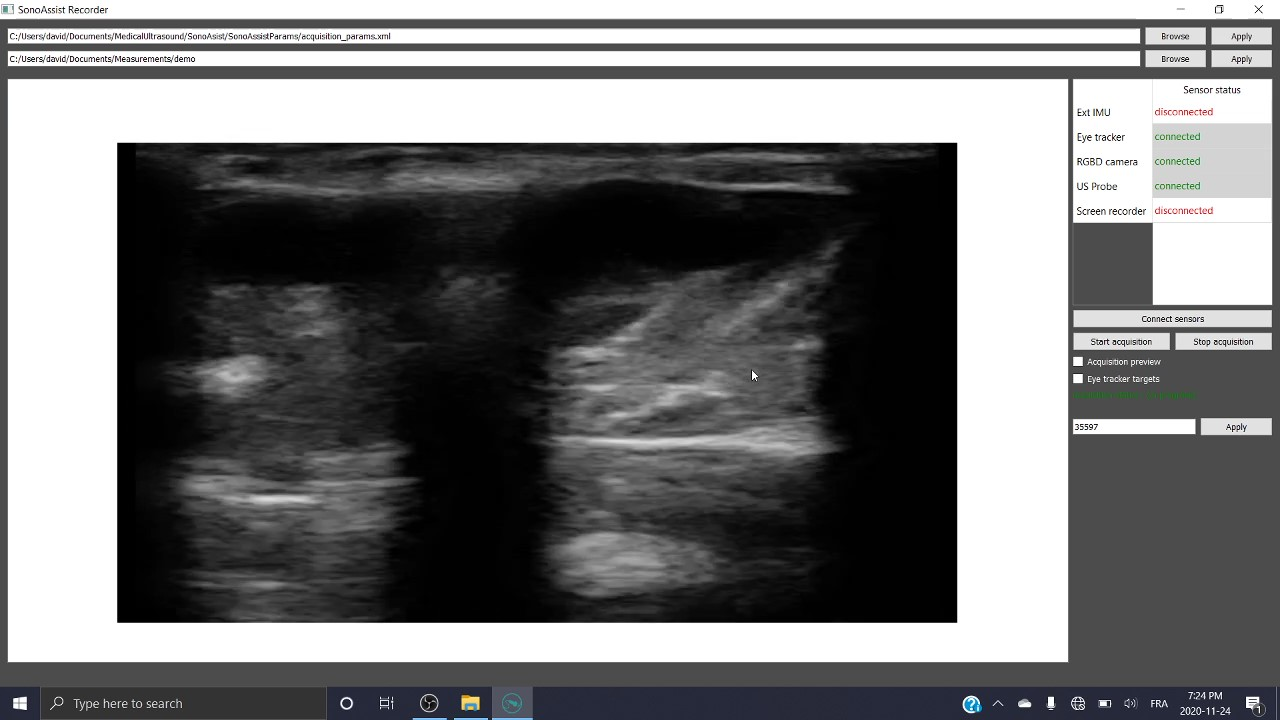
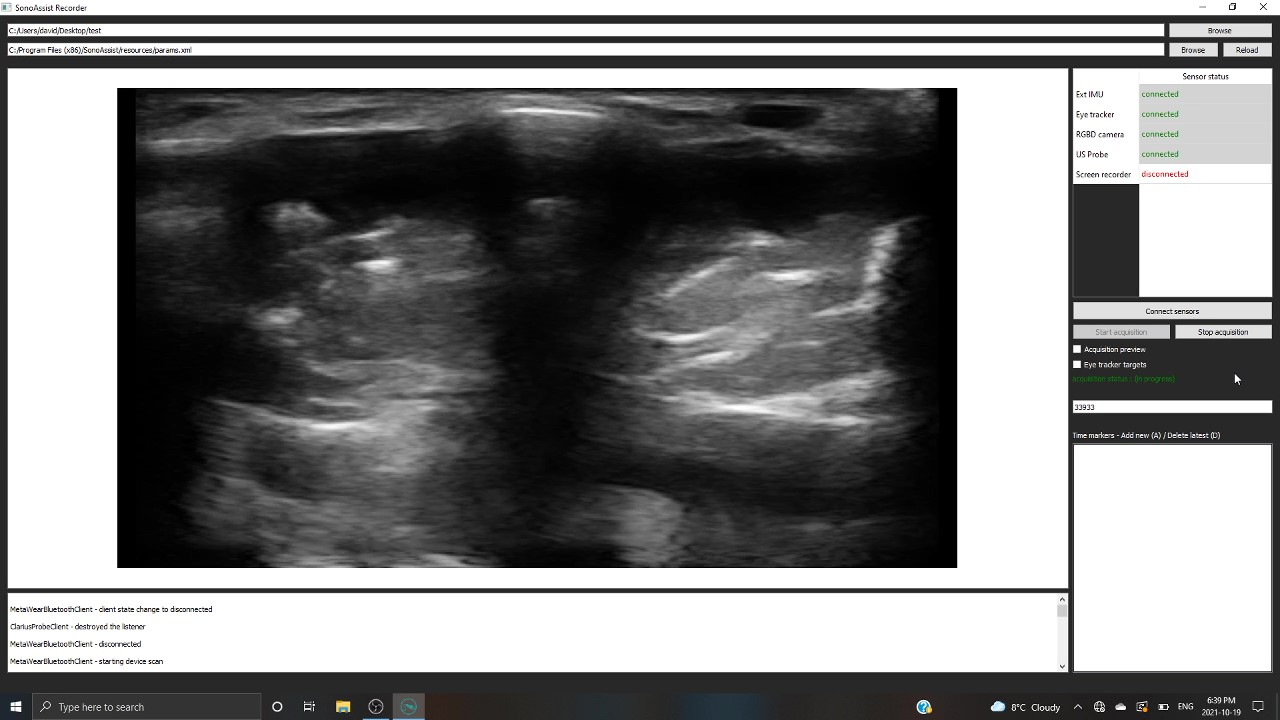
Tweaks and new time marker functionality
- New time marker functionality
		- add a time marker (a key)
		- remove latest time marker (d key)

	- UI updates
		- changed the position of the debug output window
		- new side panel component for time markers

	- Updated the readme

diff --git a/SonoAssist/SonoAssist/SonoAssist.cpp b/SonoAssist/SonoAssist/SonoAssist.cpp
@@ -313,6 +313,8 @@ void SonoAssist::on_start_acquisition_button_clicked() {
             m_stream_is_active = true;
             set_acquisition_label(true);
 
+            clear_time_markers();
+
             // graying out the (start acquisition button while streaming)
             ui.start_acquisition_button->setEnabled(false);
 
@@ -537,7 +539,6 @@ void SonoAssist::on_us_probe_status_change(bool device_status) {
     set_device_status(device_status, US_PROBE);
 }
 
-
 void SonoAssist::add_debug_text(QString debug_str) {
     
     try {
@@ -545,6 +546,55 @@ void SonoAssist::add_debug_text(QString debug_str) {
     } catch (...) {};
     
 }
+
+///////////////////////////////////////////////////////////////////////////////////////////////////////////// time marker handling
+
+/*
+Using the key press handler to detect "a" and "d" presses for the creation and deletion of time markers
+*/
+void SonoAssist::keyPressEvent(QKeyEvent* event) {
+
+    if (m_stream_is_active) {
+
+        // adding a time marker
+        if (event->key() == Qt::Key_A) {
+
+            // adding the marker to the display list + json time marker list
+            QString marker_str = "Time marker #" + QString::number(ui.time_marker_list->count()) + " - " + QString::fromUtf8(SensorDevice::get_micro_timestamp().c_str());
+            ui.time_marker_list->addItem(new QListWidgetItem(marker_str));
+            m_time_markers_json.push_back(QJsonValue(marker_str));
+
+            // updating the output params
+            m_output_params["time_markers"] = m_time_markers_json;
+
+        }
+
+        // removing a time marker
+        else if (event->key() == Qt::Key_D) {
+
+            // removing the latest time marker
+            if (ui.time_marker_list->count() > 0) {
+                m_time_markers_json.pop_back();
+                delete ui.time_marker_list->takeItem(ui.time_marker_list->count() - 1);
+            }
+
+            // updating the output params
+            m_output_params["time_markers"] = m_time_markers_json;
+
+        }
+
+    }
+
+}
+
+void SonoAssist::clear_time_markers(void) {
+
+    if (ui.time_marker_list->count() > 0) {
+        ui.time_marker_list->clear();
+    }
+    
+}
+
 
 ///////////////////////////////////////////////////////////////////////////////////////////////////////////// graphical functions
 
@@ -653,7 +703,9 @@ void SonoAssist::configure_normal_display(void) {
     // loading the normal normal display dimensions
     try {
         m_main_us_img_width = std::stoi((*m_app_params)["us_image_main_display_width"]);
+        if (m_main_us_img_width > US_DISPLAY_DEFAULT_WIDTH) m_main_us_img_width = US_DISPLAY_DEFAULT_WIDTH;
         m_main_us_img_height = std::stoi((*m_app_params)["us_image_main_display_height"]);
+        if (m_main_us_img_height > US_DISPLAY_DEFAULT_HEIGHT) m_main_us_img_height = US_DISPLAY_DEFAULT_HEIGHT;
     } catch (...) {
         m_main_us_img_width = US_DISPLAY_DEFAULT_WIDTH;
         m_main_us_img_height = US_DISPLAY_DEFAULT_HEIGHT;

diff --git a/SonoAssist/SonoAssist/SonoAssist.h b/SonoAssist/SonoAssist/SonoAssist.h
@@ -3,7 +3,9 @@
 #define _WINSOCKAPI_
 #include <windows.h>
 
+#include <tuple>
 #include <memory>
+#include <vector>
 
 #include <QFile>
 #include <QString>
@@ -30,8 +32,8 @@
 #define INACTIVE_SENSOR_FIELD_COLOR "#ffffff"
 
 // US probe display (normal)
-#define US_DISPLAY_DEFAULT_WIDTH 640
-#define US_DISPLAY_DEFAULT_HEIGHT 480
+#define US_DISPLAY_DEFAULT_WIDTH 1260
+#define US_DISPLAY_DEFAULT_HEIGHT 720
 
 // US probe display (preview)
 #define PREVIEW_US_DISPLAY_WIDTH 640
@@ -100,6 +102,9 @@ class SonoAssist : public QMainWindow {
 		void on_udp_port_input_editingFinished(void);
 		void sensor_panel_selection_handler(int row, int column);
 
+	protected:
+		void keyPressEvent(QKeyEvent* event);
+
 	private:
 
 		Ui::MainWindow ui;
@@ -134,9 +139,12 @@ class SonoAssist : public QMainWindow {
 		QJsonObject m_output_params;
 		std::string m_output_folder_path = "";
 		std::shared_ptr<config_map> m_app_params;
-		
+
+		// time marker handling vars
+		QJsonArray m_time_markers_json;
+
 		// sensor devices
-		
+
 		std::shared_ptr<RGBDCameraClient> m_camera_client_p;
 		std::shared_ptr<GazeTracker> m_gaze_tracker_client_p;
 		std::shared_ptr<ClariusProbeClient> m_us_probe_client_p;
@@ -176,4 +184,6 @@ class SonoAssist : public QMainWindow {
 		bool create_output_folder(void);
 		bool load_config_file(QString param_file_path);
 
+		// time marker funcions
+		void clear_time_markers(void);
 };

diff --git a/SonoAssistScripts/display_live_imu.py b/SonoAssistScripts/display_live_imu.py
@@ -75,6 +75,7 @@ if __name__ == "__main__":
                 scene.update_dynamic_arrow(orientation_data[1], orientation_data[2], orientation_data[3])
                 scene.update_display()
 
-                print(f"queue size : {us_model.r_connection.llen(us_model.data_key)}")
+                # print(f"queue size : {us_model.r_connection.llen(us_model.data_key)}")
 
+        # compatible with > 20 Hz acquisition
         else: time.sleep(0.05)

diff --git a/SonoAssist/SonoAssist/SensorDevice.cpp b/SonoAssist/SonoAssist/SensorDevice.cpp
@@ -93,7 +93,7 @@ void SensorDevice::write_to_redis(std::string data_str){
 * 
 * @returns string of micro second count since epoch
 */
-std::string SensorDevice::get_micro_timestamp(void) const {
+std::string SensorDevice::get_micro_timestamp(void) {
 
 	auto time_stamp = std::chrono::duration_cast<std::chrono::microseconds>(
 		std::chrono::high_resolution_clock::now().time_since_epoch()).count();

diff --git a/SonoAssist/SonoAssist/SensorDevice.h b/SonoAssist/SonoAssist/SensorDevice.h
@@ -46,7 +46,7 @@ class SensorDevice : public QObject {
 
 		// helper functions
 		void write_debug_output(QString);
-		std::string get_micro_timestamp(void) const;
+		static std::string get_micro_timestamp(void);
 
 		// interface functions (virtual)
 		// all interface functions must be non-bloking

diff --git a/README.md b/README.md
@@ -38,7 +38,9 @@ The python processing scripts were developed and tested in the Ubuntu operating 
 Note that the configuration parameters for the processing scripts are detailed in the [wiki](https://github.com/OneWizzardBoi/SonoAsist/wiki/Processing-scripts-configuration).
 
 ### Installing the sonopy package
-    - cd SonoAssistScrips/
+1. Clone the repository
+2. Use pip install
+    - cd SonoAssist/SonoAssistScrips/
     - pip install sonopy
 
 ## Installing for development (Windows)
